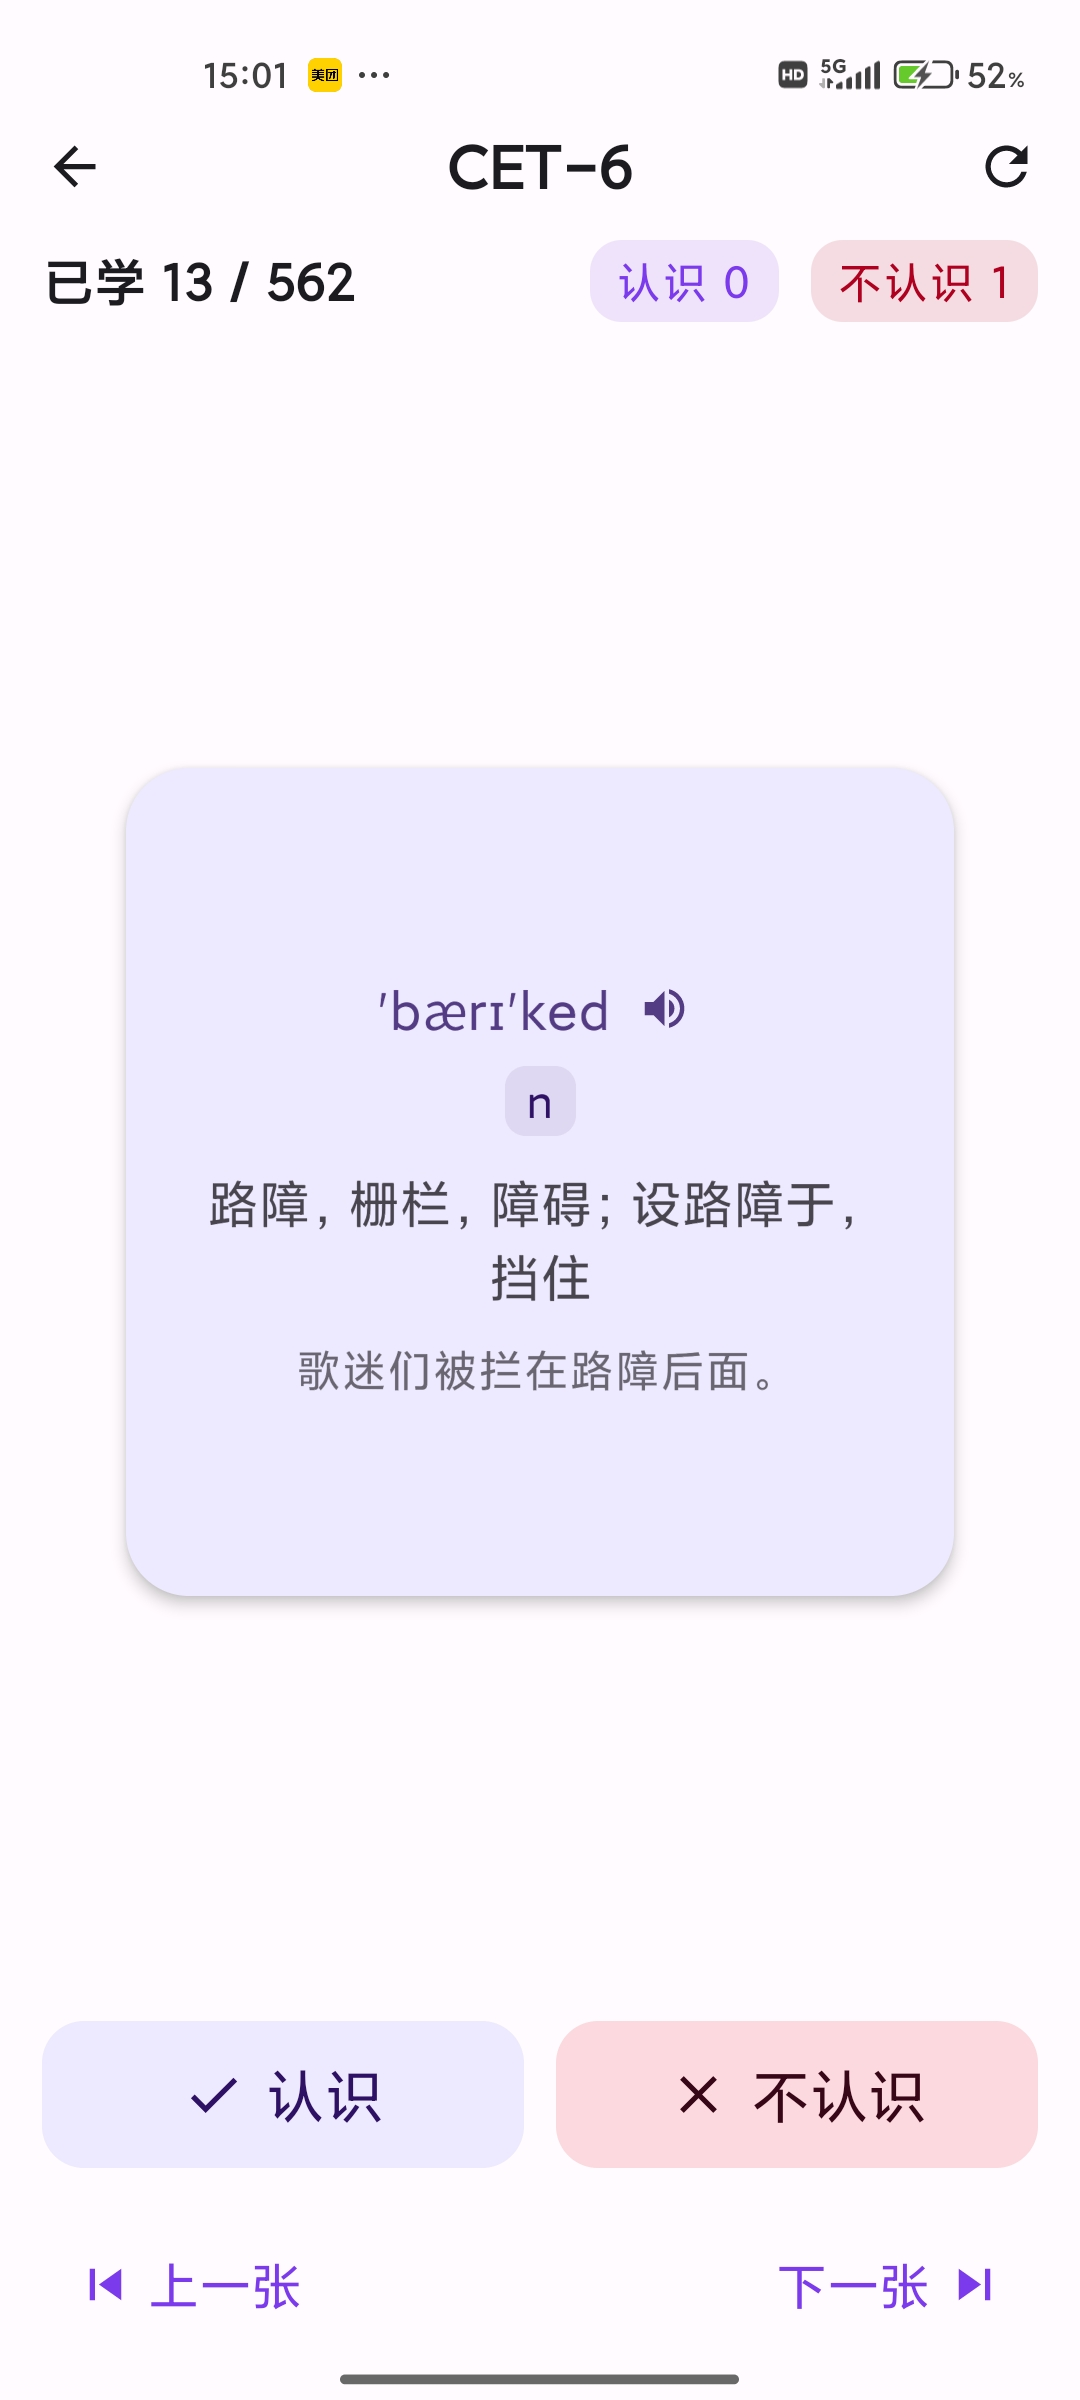
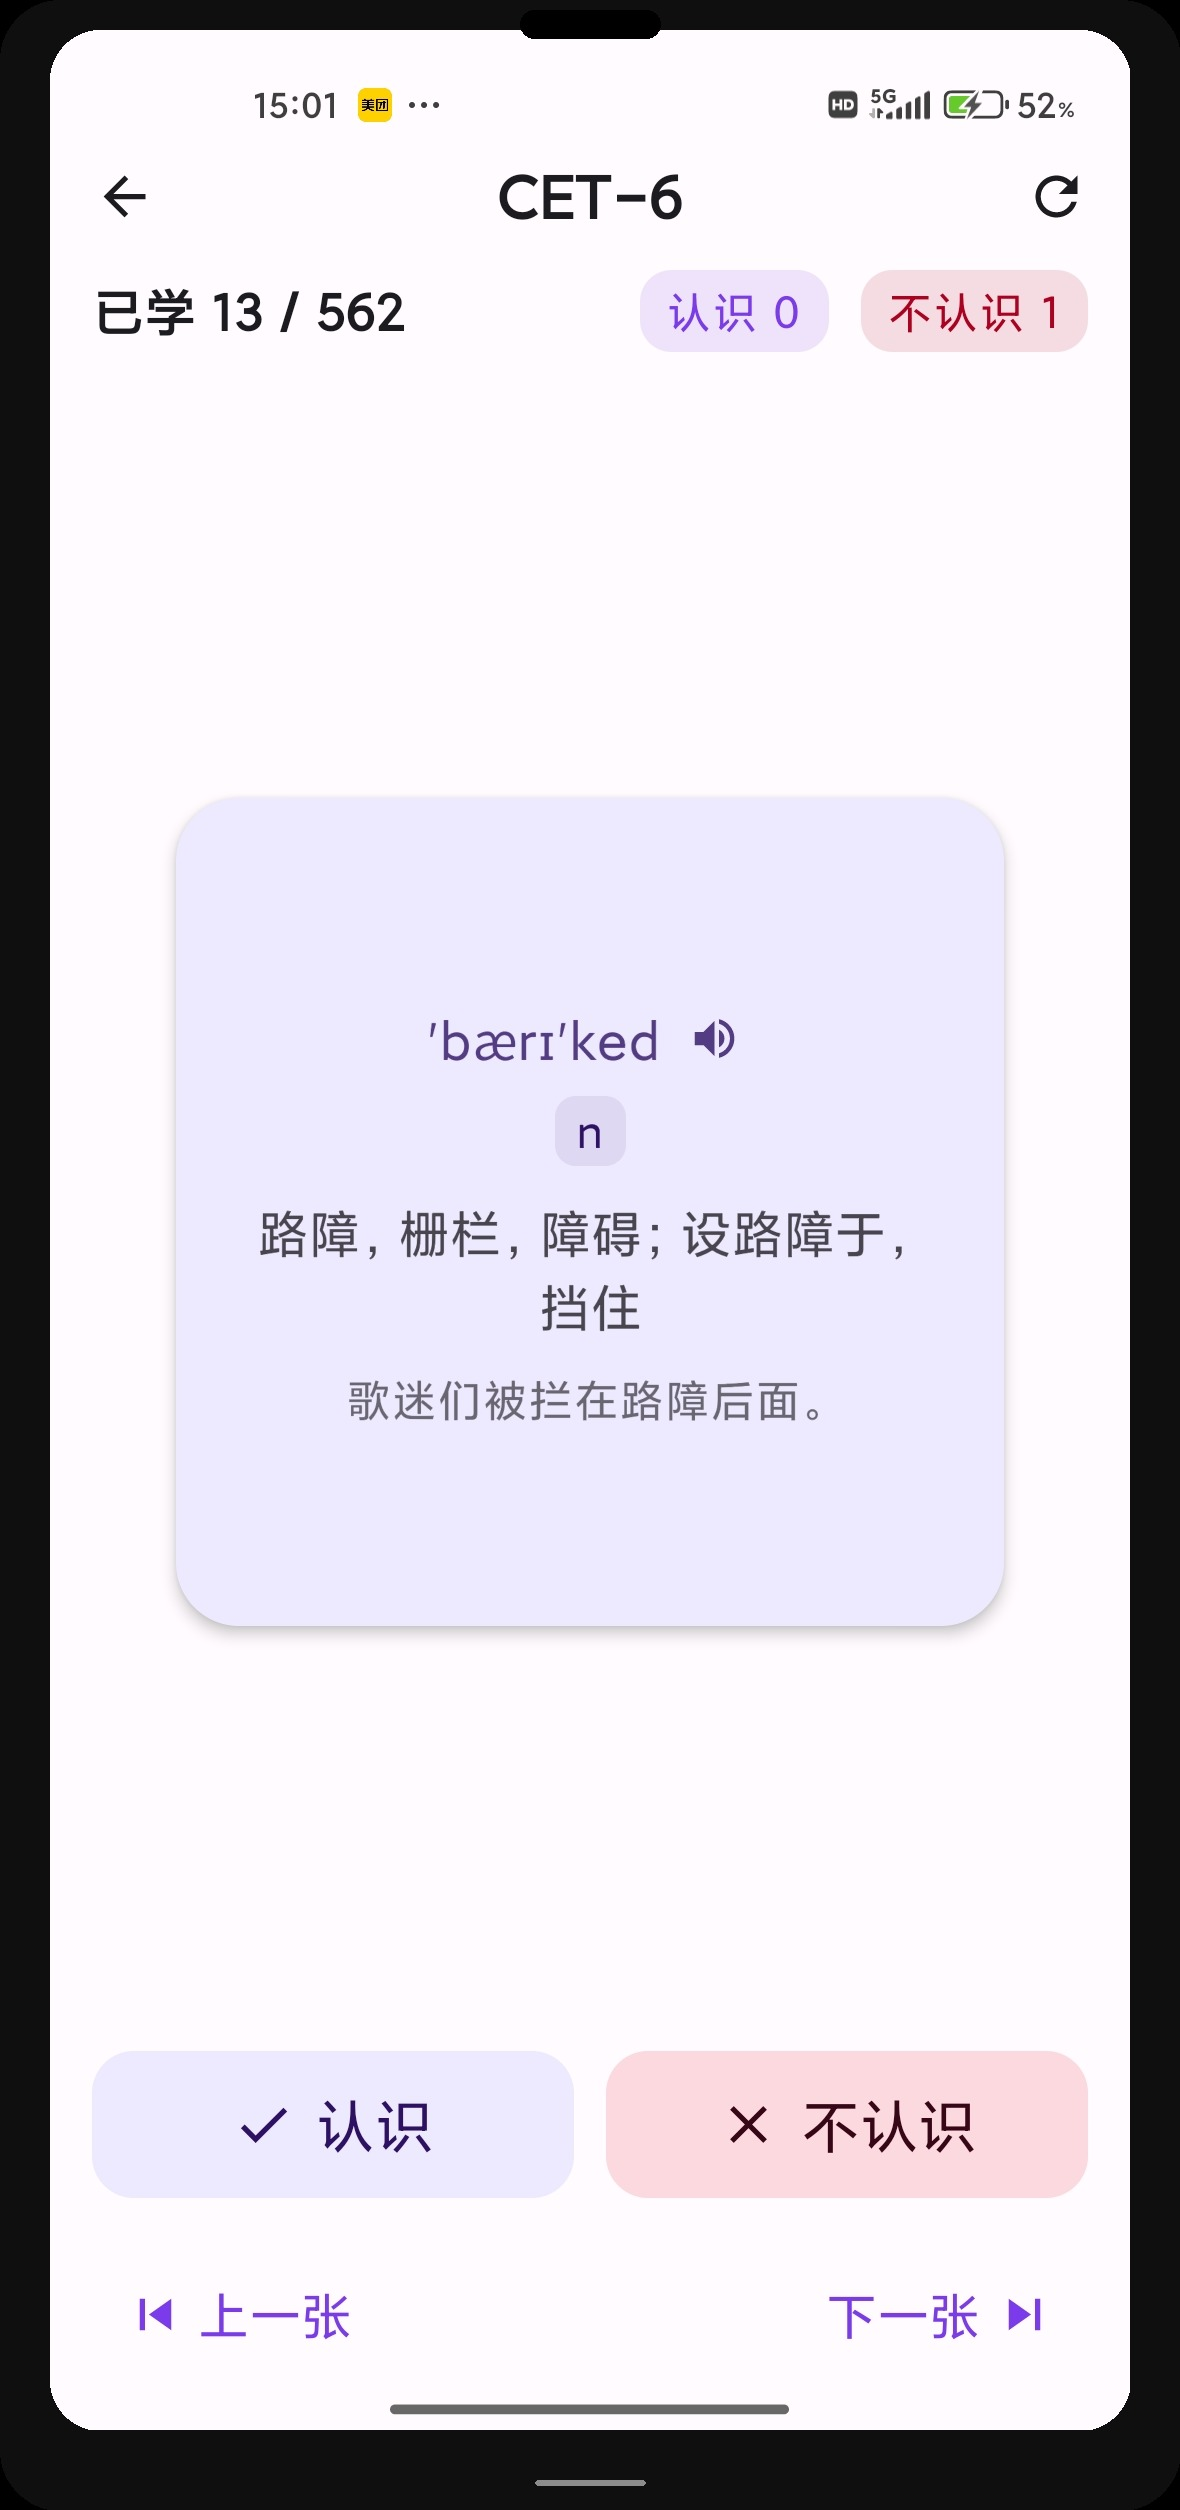
docs(readme): add phone device frame to all 11 app screenshots
Wrap each screenshot in a dark phone bezel with rounded corners, a small
notch at the top, and a home indicator at the bottom. Visually separates
adjacent screenshots in the README grid and reads as a real device mockup
rather than bare phone captures.

Generated by scripts/frame_screenshots.py (PIL): bezel 50px sides /
30px top / 80px bottom, outer radius 60px, inner radius 50px,
notch 140x28 pill, indicator 110x5 bar.

diff --git a/scripts/frame_screenshots.py b/scripts/frame_screenshots.py
@@ -1,0 +1,88 @@
+"""Add a phone-style device frame to each app screenshot.
+
+Source screenshots are 1080x2400 (phone aspect). This script overlays:
+  - dark bezel (rounded rectangle outside the screenshot)
+  - screen with rounded corners (so the screenshot is "fitted" inside)
+  - small notch (pill at top center)
+  - home indicator (small bar at bottom center)
+Output: same files, regenerated in place as JPEG.
+"""
+from PIL import Image, ImageDraw
+from pathlib import Path
+
+SRC_DIR = Path("docs/app-screenshots")
+
+# Frame parameters — sized so the bezel reads ~12px on a 280px display.
+BEZEL_TOP = 30       # status bar / notch region
+BEZEL_BOTTOM = 80    # chin with home indicator
+BEZEL_SIDE = 50      # left/right bezel
+OUTER_RADIUS = 60    # outer corner radius
+INNER_RADIUS = 50    # screen corner radius (where screenshot meets bezel)
+PHONE_COLOR = (15, 15, 15)
+
+NOTCH_W = 140
+NOTCH_H = 28
+NOTCH_COLOR = (0, 0, 0)
+
+INDICATOR_W = 110
+INDICATOR_H = 5
+INDICATOR_COLOR = (140, 140, 140)
+
+
+def frame_one(src_path: Path) -> None:
+    img = Image.open(src_path).convert("RGB")
+    w, h = img.size
+
+    new_w = w + 2 * BEZEL_SIDE
+    new_h = h + BEZEL_TOP + BEZEL_BOTTOM
+
+    # Build the phone body as RGBA so we can composite the screen cleanly.
+    body = Image.new("RGBA", (new_w, new_h), (0, 0, 0, 0))
+    body_draw = ImageDraw.Draw(body)
+    body_draw.rounded_rectangle(
+        (0, 0, new_w, new_h),
+        radius=OUTER_RADIUS,
+        fill=PHONE_COLOR + (255,),
+    )
+
+    # Round the screen so it sits inside the bezel with smooth corners.
+    screen_mask = Image.new("L", (w, h), 0)
+    ImageDraw.Draw(screen_mask).rounded_rectangle(
+        (0, 0, w, h),
+        radius=INNER_RADIUS,
+        fill=255,
+    )
+    body.paste(img, (BEZEL_SIDE, BEZEL_TOP), screen_mask)
+
+    # Notch (pill at top center).
+    notch_x = (new_w - NOTCH_W) // 2
+    body_draw.rounded_rectangle(
+        (notch_x, 10, notch_x + NOTCH_W, 10 + NOTCH_H),
+        radius=14,
+        fill=NOTCH_COLOR,
+    )
+
+    # Home indicator.
+    ind_x = (new_w - INDICATOR_W) // 2
+    ind_y = new_h - 30
+    body_draw.rounded_rectangle(
+        (ind_x, ind_y, ind_x + INDICATOR_W, ind_y + INDICATOR_H),
+        radius=2,
+        fill=INDICATOR_COLOR,
+    )
+
+    body.convert("RGB").save(src_path, quality=92, optimize=True)
+
+
+def main() -> None:
+    for i in range(1, 12):
+        path = SRC_DIR / f"{i}.jpg"
+        if not path.exists():
+            print(f"skip (missing): {path}")
+            continue
+        frame_one(path)
+        print(f"framed: {path}")
+
+
+if __name__ == "__main__":
+    main()
